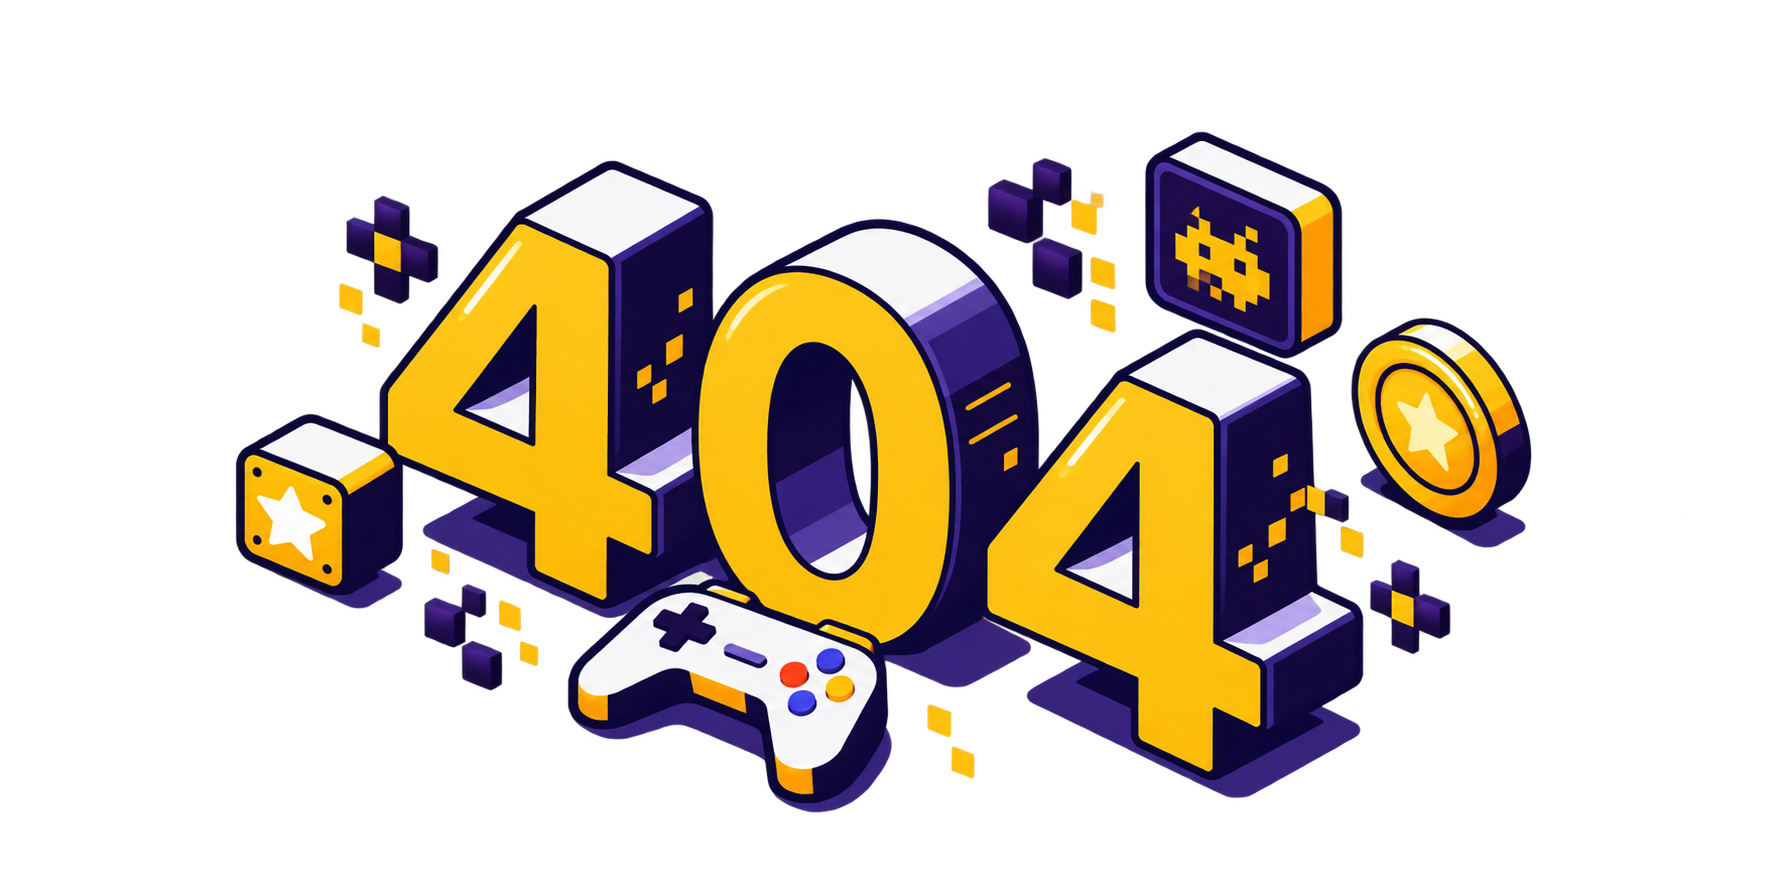
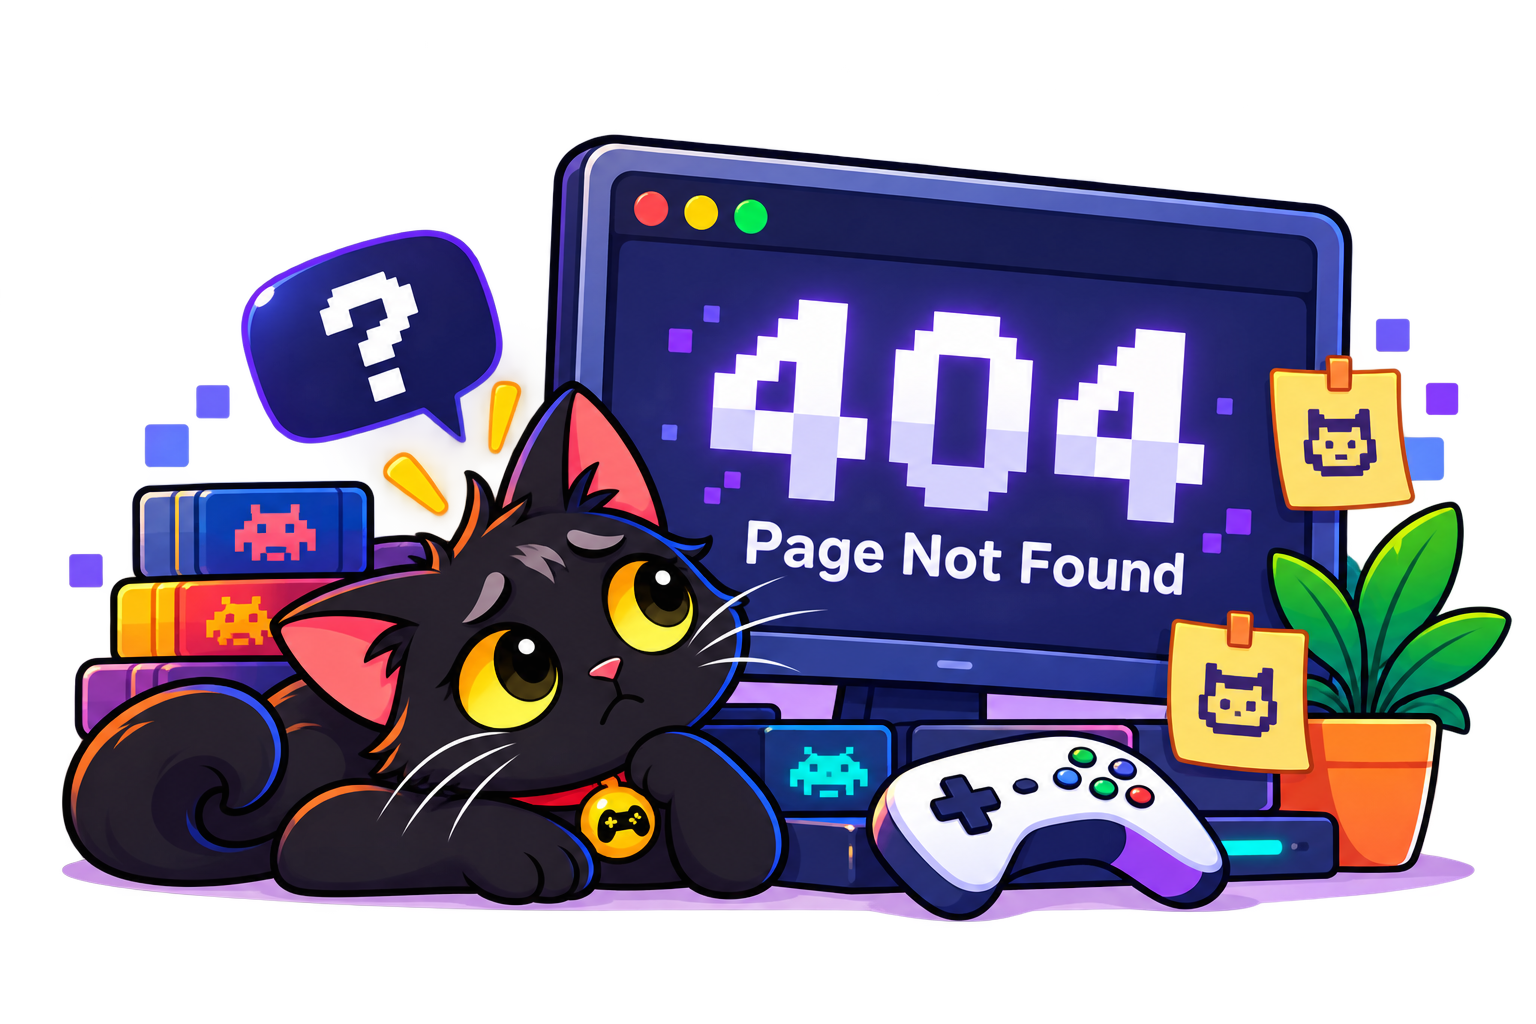
fix(ui): add illustrated error states

diff --git a/src/features/library/library-games.ts b/src/features/library/library-games.ts
@@ -1,4 +1,5 @@
 import libraryDataNotFoundImage from '../../assets/images/library-data-not-found.png';
+import unableLoadGamesImage from '../../assets/images/unable_load_games.png';
 import { ApiError } from '../../api/http-client';
 import { getLibraryGames } from '../../api/minigames-api';
 import { ContentFeedback } from '../../components/content-feedback';
@@ -124,6 +125,7 @@ export class LibraryGames {
       this.feedback.showError({
         title: 'Unable to load games',
         message,
+        imageSrc: unableLoadGamesImage,
         onRetry: () => this.load(attemptedQuery, true),
       });
       this.onState({ kind: 'error' });
